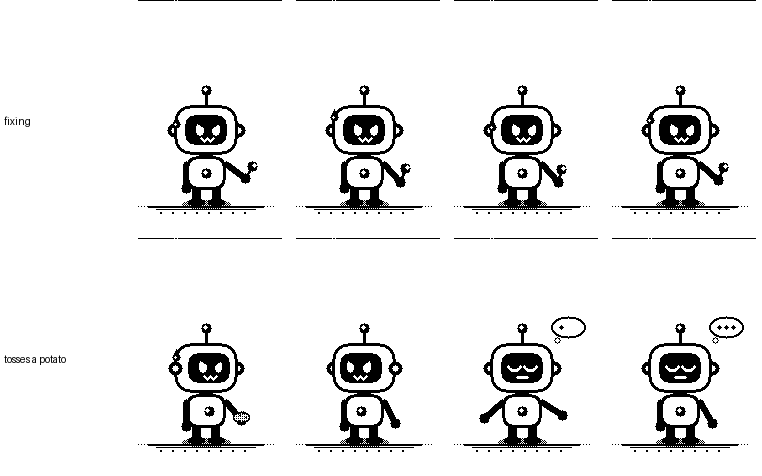
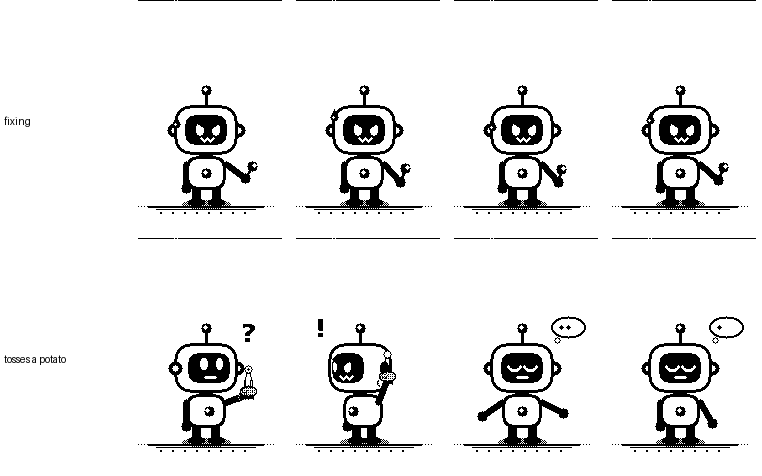
Upset PIP's potato is now a posh potato battery (firmware 1.5.1)
- The potato on the error-screen easter egg is a science-fair potato battery:
  copper and zinc electrodes, a wire loop, a tiny bulb (bright / feeble /
  dead), worn with a monocle on a chain and a bow tie. No face.
- The upset act tells a story: PIP squints at the flickering bulb, shakes the
  battery, the bulb flares and dies, a glare, the potato goes flying off the
  screen, PIP dusts off its hands, sulks, recovers.
- Docs: ADR-025, manual, AGENTS.md. Verified on hardware (98 s uptime,
  heap 36 KB, indoor sensor 4 ok / 0 fail).

diff --git a/firmware/components/ui_core/ui_props.c b/firmware/components/ui_core/ui_props.c
@@ -21,17 +21,51 @@ static void ring_disc(rlcd_fb_t *fb, float x, float y, float r, float t)
     }
 }
 
-/* a lumpy spud with a few eyes that roll round as it tumbles */
-static void potato(rlcd_fb_t *fb, float x, float y, float s, float spin)
+/* a science-fair potato battery: lumpy spud, a copper and a zinc electrode, a wire loop up to a tiny bulb.
+ * glow: 1 bright (rays), ~0.3 a feeble glimmer, 0 dead (hollow bulb). spin rolls the skin specks. */
+static void potato(rlcd_fb_t *fb, float x, float y, float s, float spin, float glow)
 {
+    float ex0 = x - 3.0f * s, ex1 = x + 3.0f * s, et = y - 11.0f * s, bx = x, by = y - 22.0f * s;
+    fb_line_f(fb, ex0, et, bx - 2.0f * s, by + 4.0f * s, 1.0f, INK_BLACK); /* wires */
+    fb_line_f(fb, ex1, et, bx + 2.0f * s, by + 4.0f * s, 1.0f, INK_BLACK);
+    fb_fill_rect(fb, ri(ex0 - 1.0f), ri(et), 2, ri(8.0f * s), INK_BLACK);   /* copper strip */
+    fb_rect(fb, ri(ex1 - 1.0f), ri(et), 3, ri(8.0f * s), 1, INK_BLACK);     /* zinc strip */
+    fb_fill_rect(fb, ri(bx - 2.0f * s), ri(by + 2.0f * s), ri(4.0f * s) + 1, ri(2.0f * s) + 1, INK_BLACK); /* bulb base */
+    fb_disc_f(fb, bx, by, 4.0f * s, INK_BLACK);
+    fb_disc_f(fb, bx, by, 2.8f * s, INK_WHITE);
+    if (glow > 0.15f) {
+        fb_disc_f(fb, bx, by, glow > 0.6f ? 1.8f * s : 1.0f, INK_BLACK); /* filament */
+    }
+    if (glow > 0.6f) {
+        for (int k = 0; k < 5; k++) {
+            float a = -PI_F * (0.1f + 0.2f * (float)k);
+            fb_line_f(fb, bx + cosf(a) * 6.0f * s, by + sinf(a) * 6.0f * s, bx + cosf(a) * 9.0f * s,
+                      by + sinf(a) * 9.0f * s, 1.5f, INK_BLACK);
+        }
+    }
     fb_fill_ellipse(fb, ri(x), ri(y), ri(8.0f * s), ri(5.5f * s), INK_BLACK);
-    fb_fill_ellipse(fb, ri(x + 2.0f * s), ri(y - 3.0f * s), ri(3.0f * s), ri(2.5f * s), INK_BLACK); /* lump */
+    fb_fill_ellipse(fb, ri(x + 3.0f * s), ri(y + 2.0f * s), ri(3.5f * s), ri(3.0f * s), INK_BLACK); /* lump */
     fb_fill_ellipse(fb, ri(x), ri(y), ri(6.5f * s), ri(4.0f * s), INK_WHITE);
     fb_fill_ellipse_pat(fb, ri(x), ri(y), ri(6.5f * s), ri(4.0f * s), 2);
-    for (int k = 0; k < 3; k++) {
+    for (int k = 0; k < 3; k++) { /* skin specks */
         float a = spin + (float)k * 2.1f;
-        fb_fill_rect(fb, ri(x + cosf(a) * 4.0f * s), ri(y + sinf(a) * 2.5f * s), 2, 1, INK_BLACK);
+        fb_set(fb, ri(x + cosf(a) * 4.5f * s), ri(y + sinf(a) * 2.5f * s), INK_BLACK);
     }
+    /* a rather posh potato: a monocle worn off to one side - just a rim and a glint, the skin shows through the
+     * glass - on a chain that hangs below, and a little bow tie */
+    float mx = x - 3.5f * s, my = y - 0.5f * s, mr = 3.2f * s;
+    fb_ellipse(fb, ri(mx), ri(my), ri(mr), ri(mr), 1, INK_BLACK);
+    fb_set(fb, ri(mx + 1.0f), ri(my - mr + 1.0f), INK_WHITE); /* glint on the rim */
+    fb_set(fb, ri(mx + 2.0f), ri(my - mr + 2.0f), INK_WHITE);
+    for (int k = 0; k <= 8; k++) { /* chain: loops down outside the potato */
+        float u = (float)k / 8.0f;
+        float cxp = mx - mr - 3.0f * s * sinf(u * PI_F * 0.9f), cyp = my + 2.0f + 9.0f * s * u;
+        fb_set(fb, ri(cxp), ri(cyp), (k & 1) ? INK_BLACK : INK_WHITE);
+        fb_set(fb, ri(cxp) - 1, ri(cyp), INK_BLACK);
+    }
+    float tx = x + 1.0f * s, ty = y + 6.5f * s; /* bow tie */
+    fb_fill_triangle(fb, ri(tx), ri(ty), ri(tx - 4.0f * s), ri(ty - 2.0f * s), ri(tx - 4.0f * s), ri(ty + 2.0f * s), INK_BLACK);
+    fb_fill_triangle(fb, ri(tx), ri(ty), ri(tx + 4.0f * s), ri(ty - 2.0f * s), ri(tx + 4.0f * s), ri(ty + 2.0f * s), INK_BLACK);
 }
 
 static void ball(rlcd_fb_t *fb, float x, float y, float r, float spin)
@@ -237,7 +271,7 @@ static void held_one(rlcd_fb_t *fb, int prop, const mascot_pose_t *p, const pip_
         }
         break;
     }
-    case PROP_POTATO: potato(fb, hx, hy - 3.0f * s, s, t); break;
+    case PROP_POTATO: potato(fb, hx, hy - 3.0f * s, s, 0.0f, t); break; /* held: held_t = bulb brightness */
     case PROP_PHONE: { /* held to the ear: a little handset with a lit screen */
         fb_fill_rrect(fb, ri(hx - 3.5f * s), ri(hy - 13.0f * s), ri(8.0f * s), ri(15.0f * s), ri(2.0f * s), INK_BLACK);
         fb_fill_rect(fb, ri(hx - 1.5f * s), ri(hy - 11.0f * s), ri(4.0f * s), ri(8.0f * s), INK_WHITE);
@@ -437,7 +471,7 @@ void ui_prop_flying(rlcd_fb_t *fb, const mascot_pose_t *p, const pip_rig_t *r, i
     float rx = (float)cx + r->hand[1].x, ry = (float)fy + r->hand[1].y;
     switch (p->obj) {
     case PROP_BALL: ball(fb, x, y, 7.0f, t); break;
-    case PROP_POTATO: potato(fb, x, y, 1.0f, t); break;
+    case PROP_POTATO: potato(fb, x, y, 1.0f, t, 0.0f); break; /* flying: dead bulb, tumbling */
     case PROP_PLANE: {
         float dirx = cosf(fabsf(t)) * (t < 0.0f ? -1.0f : 1.0f), diry = -sinf(fabsf(t)) * 0.8f;
         float n = sqrtf(dirx * dirx + diry * diry);

diff --git a/firmware/components/mascot_renderer/mascot_acts.c b/firmware/components/mascot_renderer/mascot_acts.c
@@ -1840,38 +1840,54 @@ static void x_mainframe(mascot_pose_t *p, float t, float D, int v, float s, int 
 
 static void e_potato(mascot_pose_t *p, float t, float D, int v, float s, int mood)
 {
-    /* upset: grumbles at the potato in its hand, then hurls it off the screen and dusts off its hands */
+    /* upset, with a potato battery that won't work: squints at the feeble bulb, shakes it, it flares and dies,
+     * a glare - and the potato goes flying off the screen. Dusts off its hands, sulks, feels better. */
     float in = win(t, 0.0f, D, 0.6f);
-    const float wind0 = 2.4f, rel = 3.1f, land = 4.4f;
-    p->eyes = EYE_ANGLED;
-    p->mouth = MOUTH_WAVY;
+    const float shake0 = 2.4f, dead = 3.1f, wind0 = 3.5f, rel = 4.1f, land = 5.4f;
     if (t < rel) {
         p->held = PROP_POTATO;
-        p->held_t = t;
+        float flicker = fmodf(t * 6.0f, 1.0f) < 0.45f ? 0.35f : 0.0f;
+        p->held_t = t < shake0 ? flicker : (t < dead ? (t > shake0 + 0.25f && t < dead - 0.15f ? 1.0f : 0.35f) : 0.0f);
+        float shake = win(t, shake0, dead, 0.1f);
         float wind = seg(t, wind0, rel - 0.1f);
-        p->arm_r = mixf(40.0f * in, 165.0f, wind);
-        p->yaw = mixf(10.0f, -40.0f, wind);
-        p->lean = -4.0f * wind;
-        p->look_x = -0.6f * wind;
-        emote(p, t < wind0 ? EMOTE_SWEAT : EMOTE_EXCLAIM, t, t < wind0 ? 0.3f : wind0);
+        p->arm_r = mixf(110.0f * in + 18.0f * sinf(t * 32.0f) * shake, 165.0f, wind);
+        p->lean = 2.5f * sinf(t * 32.0f) * shake - 4.0f * wind;
+        p->yaw = mixf(10.0f * in, -40.0f, wind);
+        p->look_x = mixf(0.5f, -0.6f, wind);
+        p->look_y = mixf(-0.6f, 0.0f, wind);
+        if (t < shake0) {
+            p->eyes = EYE_PILL;
+            p->mouth = MOUTH_FLAT;
+            emote(p, EMOTE_QUESTION, t, 0.8f);
+        } else if (t < wind0) {
+            p->eyes = t < dead ? EYE_WIDE : EYE_ANGLED;
+            p->mouth = t < dead ? MOUTH_O : MOUTH_WAVY;
+            emote(p, EMOTE_SWEAT, t, shake0);
+        } else {
+            p->eyes = EYE_ANGLED;
+            p->mouth = MOUTH_WAVY;
+            emote(p, EMOTE_EXCLAIM, t, wind0);
+        }
     } else {
-        float u = seg(t, rel, land);
+        float u = (t - rel) / (land - rel);
         p->obj = t < land ? PROP_POTATO : PROP_NONE;
         p->obj_t = t * 9.0f; /* tumbling */
-        p->obj_x = mixf(18.0f, -190.0f, (t - rel) / (land - rel));
-        p->obj_y = -70.0f - 70.0f * sinf(PI_F * fminf2(1.0f, (t - rel) / (land - rel)) * 0.8f);
+        p->obj_x = mixf(18.0f, -190.0f, u);
+        p->obj_y = -70.0f - 70.0f * sinf(PI_F * fminf2(1.0f, u) * 0.8f);
         p->arm_r = mixf(165.0f, 30.0f, seg(t, rel, rel + 0.5f));
         p->yaw = mixf(-40.0f, 0.0f, seg(t, rel + 0.3f, rel + 1.2f));
-        p->look_x = -1.0f + u;
-        float dust = bump(t, land + 0.3f, land + 2.0f); /* claps the dust off */
+        p->look_x = -1.0f + seg(t, rel, land);
+        p->eyes = EYE_ANGLED;
+        p->mouth = MOUTH_WAVY;
+        float dust = bump(t, land + 0.2f, land + 1.6f); /* claps the dust off */
         p->arm_l = 70.0f * dust;
         p->arm_r = mixf(p->arm_r, 70.0f + 12.0f * sinf(t * 22.0f), dust);
-        if (t > land + 0.3f) {
+        if (t > land + 0.2f) {
             p->eyes = EYE_CLOSED;
             p->mouth = MOUTH_FLAT;
-            emote(p, EMOTE_DOTS, t, land + 0.3f);
+            emote(p, EMOTE_DOTS, t, land + 0.2f);
         }
-        if (t > D - 2.0f) {
+        if (t > D - 1.8f) {
             p->eyes = EYE_PILL;
             p->mouth = MOUTH_SMILE; /* better now */
             p->emote = EMOTE_NONE;

diff --git a/firmware/main/app_controller.h b/firmware/main/app_controller.h
@@ -22,7 +22,7 @@
 #define APP_RING_CHIME_FOR_MS 60000u /* ...for one minute */
 #define APP_ALARMS_MAX 8
 #define APP_INDOOR_HOLD_MS (5u * 60u * 1000u) /* keep showing the last good indoor reading this long */
-#define APP_FW_VERSION "1.5.0" /* keep in sync with PROJECT_VER in firmware/CMakeLists.txt */
+#define APP_FW_VERSION "1.5.1" /* keep in sync with PROJECT_VER in firmware/CMakeLists.txt */
 
 typedef enum { CHIME_START = 1, CHIME_DONE, CHIME_PAUSE, CHIME_ALARM, CHIME_OFFLINE, CHIME_CONFIRM } chime_id_t;
 

diff --git a/AGENTS.md b/AGENTS.md
@@ -127,7 +127,7 @@ every third act previews it. A tag change mid-screen restarts the performance (p
 guitar neck + strings; the guitar is strapped to the body) and draws the arms in front; a gripped laptop is drawn
 under the arms. **Easter eggs** (ADR-025): acts tagged `PIP_TAG_EGG` only come from a rare roll in `start_perf`
 (idle ~1 in 24, error screen 1 in 3, never twice in 2 h, never while focusing): PIP's relatives "PIP Mk.0" (tin toy)
-and "PIP-1960" (mainframe) swap in behind a smoke `puff` via `pose.form`, and an upset PIP hurls a potato. All
+and "PIP-1960" (mainframe) swap in behind a smoke `puff` via `pose.form`, and an upset PIP hurls its potato battery (monocle + bow tie, no face). All
 original designs - do not draw film/game characters.
 Idle acts may roam the world (`PIP_BOARD_DX`, `PIP_WORLD_L/R`, `PIP_OFFSCREEN` in `mascot.h`): they may only flip
 `behind` while PIP is clear of the board or off-screen, and must start and end at home — `test_ui` checks both.
@@ -300,7 +300,7 @@ framebuffer capture looks right, `dropped_audio_chunks` stays 0 after `/speech/s
 - Firmware 1.4.0 (task-specific acts) on hardware: with the step "Put the tools or files…" (→ computer) PIP
   played free acts and, every third act, fetched the laptop and pointed at "Next: …" on the board
   (`artifacts/rlcd/hardware/hw_next_up_v140.png`).
-- Firmware 1.5.0: indoor reading steady (48/48 samples over 4 min, `env` 9 ok / 0 fail; before: 24/46 missing),
+- Firmware 1.5.1 (1.5.0 + potato battery): indoor reading steady (48/48 samples over 4 min, `env` 9 ok / 0 fail; before: 24/46 missing),
   hands on laptop keys and guitar, easter eggs; 254 s uptime, heap 36 KB.
 - **Not yet verified on hardware:** an actual rollback (needs a deliberately broken image), hands-free recording
   end-of-speech timing in a real room, a slide transition and a full prop trip watched on the panel (needs a

diff --git a/docs/decisions.md b/docs/decisions.md
@@ -215,7 +215,10 @@ random picks from a library.
   other works' characters, even simplified, so the eggs are PIP's own family instead: "PIP Mk.0" (a wind-up tin toy
   with a turning key, accordion arms and a grille mouth) and "PIP-1960" (a cabinet computer with tape reels, status
   lamps and a printer that hands you "HI!"), swapped in behind a smoke puff (`pose.form`, `pose.puff`); and when PIP
-  is upset on the error screen it sometimes hurls a plain potato off the screen and dusts off its hands. Rarity: a
+  is upset on the error screen it sometimes hurls a potato off the screen and dusts off its hands. The potato is a
+  science-fair potato battery (copper + zinc electrode, wire, tiny bulb) worn with a monocle on a chain and a bow
+  tie - a posh spud with no face: the bulb flickers, PIP shakes it, the bulb flares and dies, the spud goes flying
+  (1.5.1). Rarity: a
   roll in `start_perf` (idle ~1 in 24, error 1 in 3), never twice within 2 h, never on the focus screen. The potato is
   fetched from the edge by a prop trip like every other prop.
 - **Grip:** the rig used to swing arms only outward, so the hands floated beside the laptop and the guitar.

diff --git a/docs/USER_MANUAL.md b/docs/USER_MANUAL.md
@@ -38,7 +38,8 @@ two buttons (**KEY** on the side, **BOOT** next to it), a microphone and a speak
   "Wed 05:00 Gym wake-up"), with "+2 more" when there are more than fit, and today's date when there is room.
 - **Easter eggs:** every now and then PIP vanishes in a puff of smoke and one of its relatives drops by - a wind-up
   tin-toy ancestor, or a 1960s cabinet computer that prints you a "HI!". And on a really bad day (the error screen)
-  PIP may just throw a potato off the screen.
+  PIP may lose patience with its posh potato battery (monocle, bow tie, a bulb that won't stay lit) and
+  throw it off the screen.
 - **Moving between screens:** screens slide like pages behind PIP (PIP itself stays where it is) — forward
   (talk → plan → focus → done, calendar) to the left, back to the right. Alarms and messages drop in from the top and lift away when you dismiss them.
 - **Right:** the important thing right now (timer, step, agenda, alarm or question). On every screen except Let's
